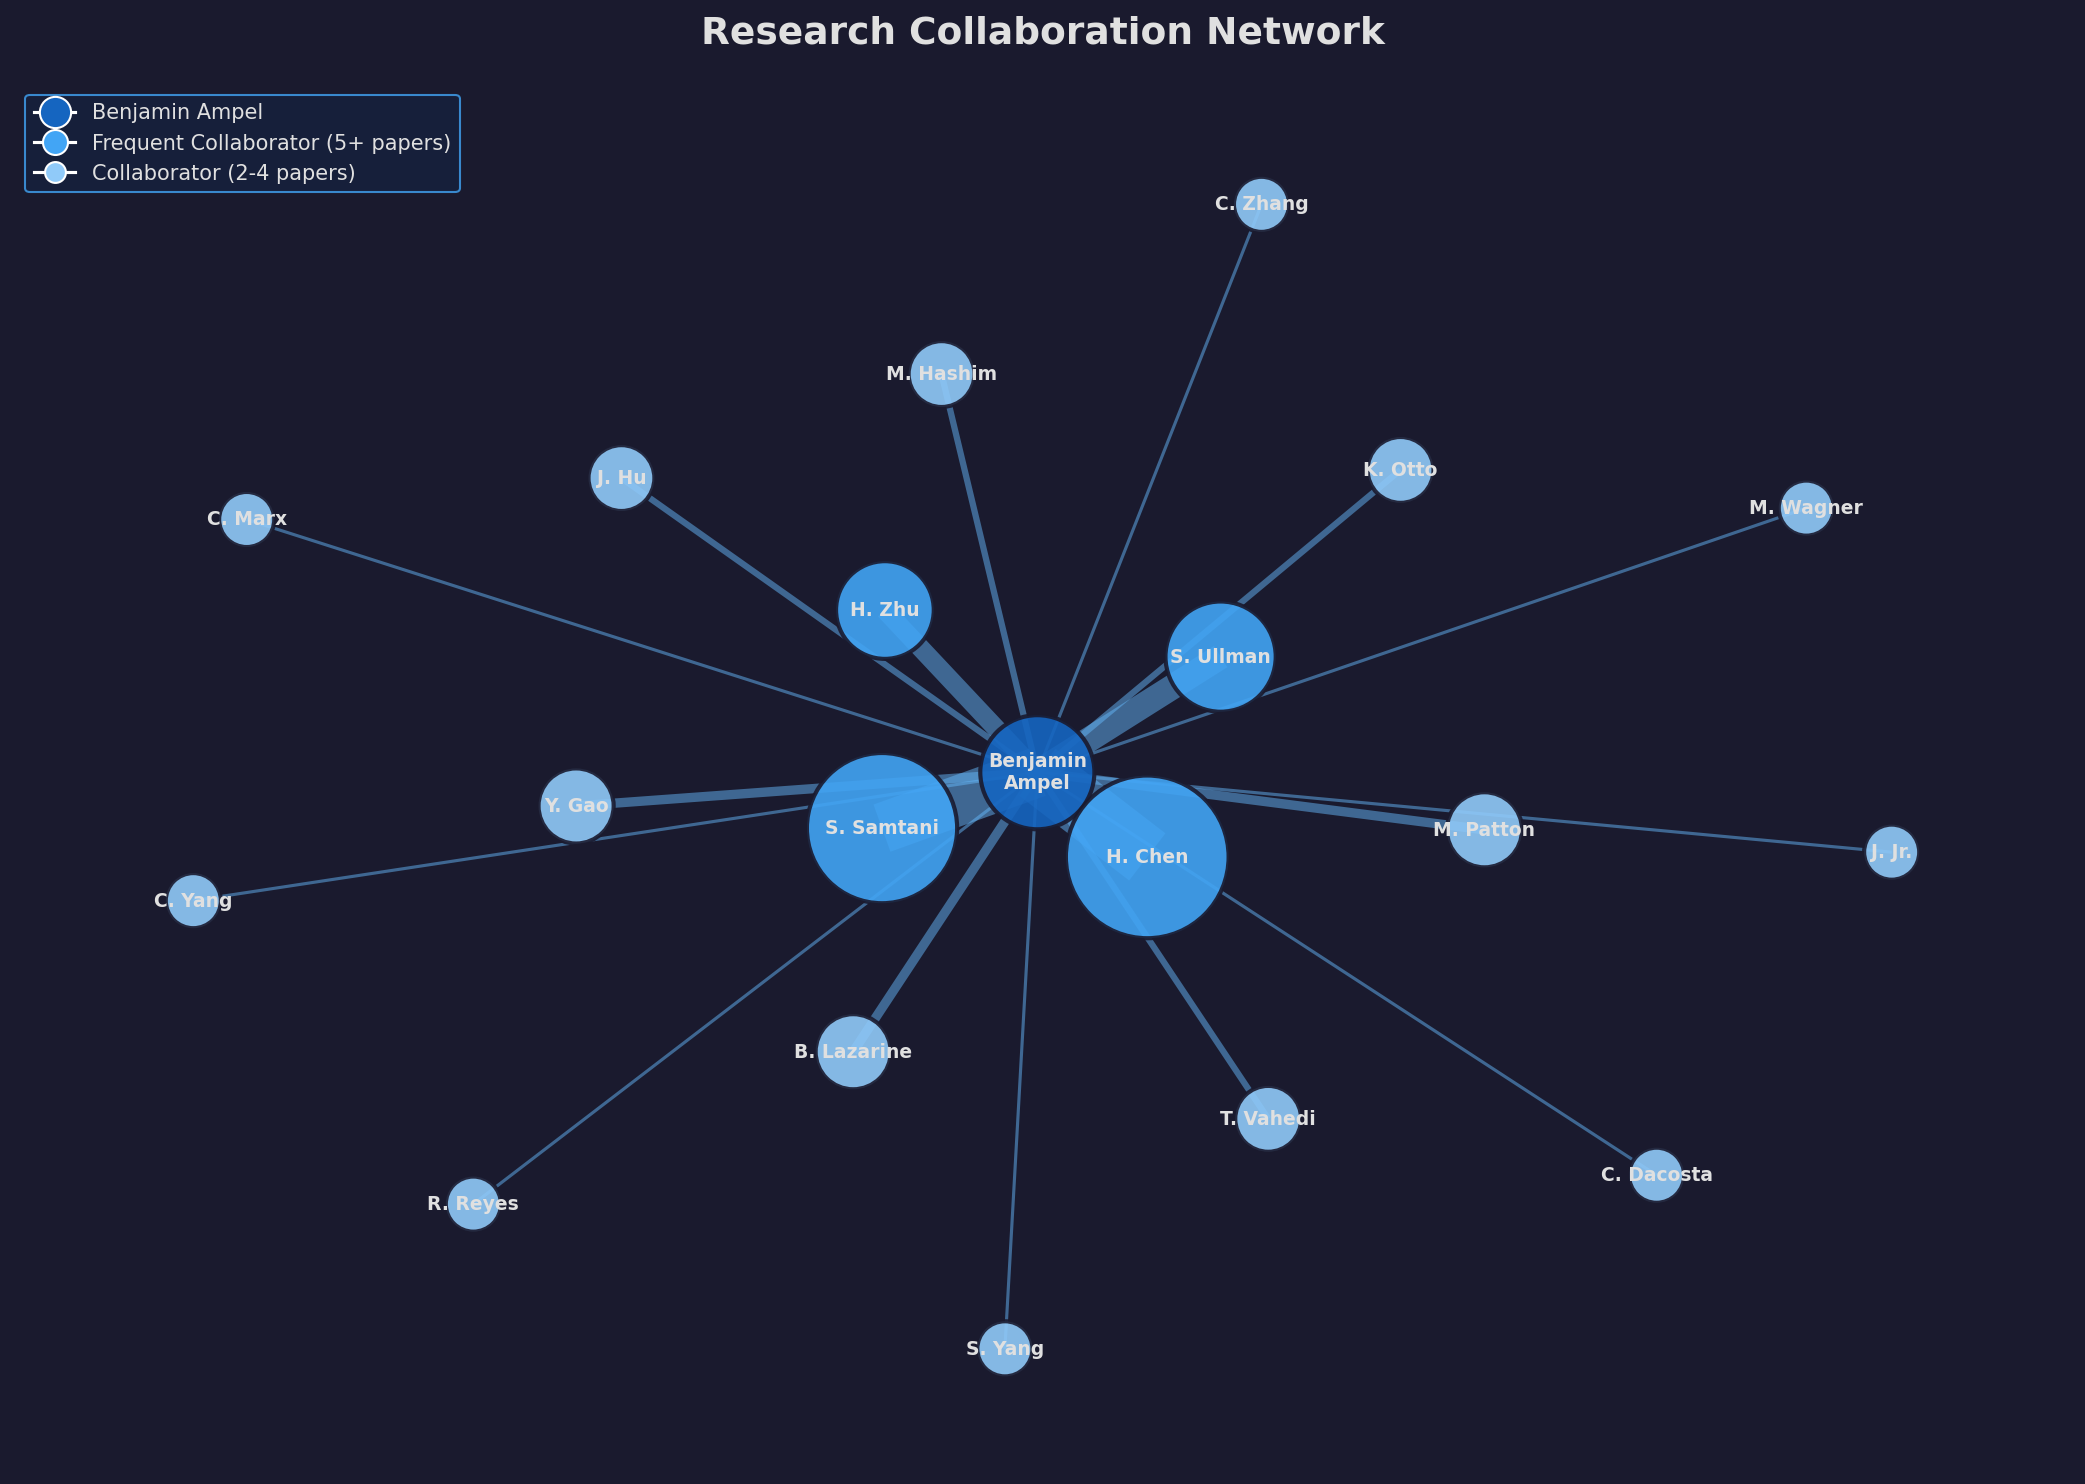
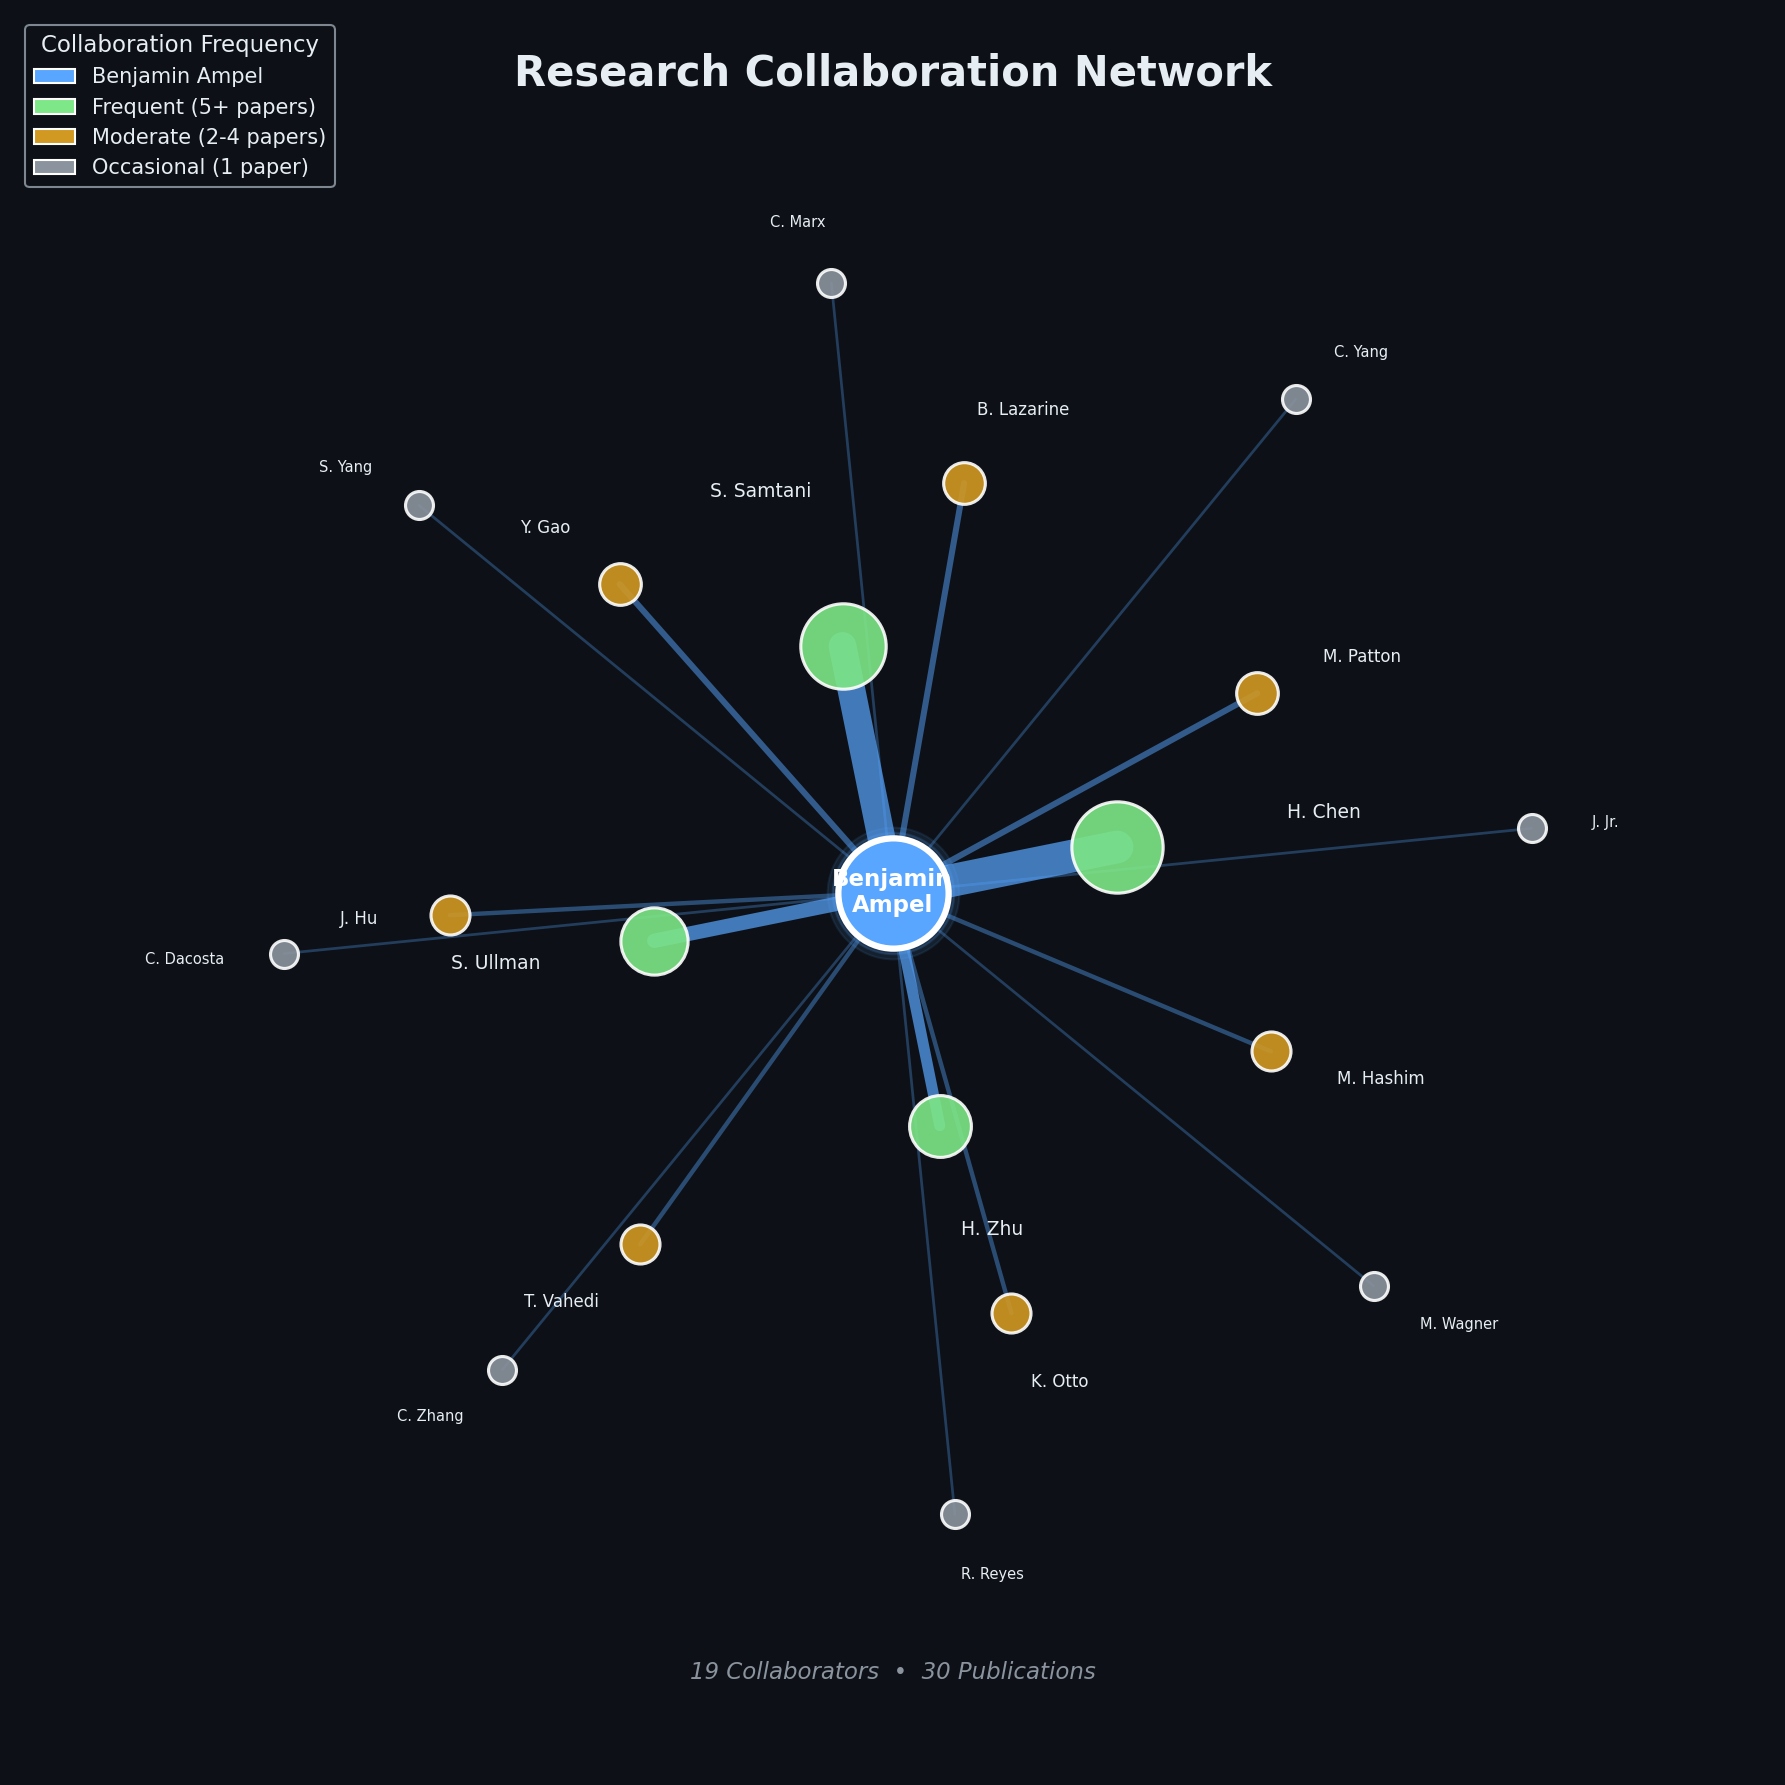
Add Python script for network generation, improve visualization
- Add scripts/generate_network.py with documentation
- Radial layout with main author at center
- Color-coded nodes by collaboration frequency (frequent/moderate/occasional)
- Glow effect on central node
- Labels positioned outside nodes for clarity
- Stats footer showing total collaborators and publications
- Professional color schemes for both light and dark modes
- GitHub-inspired dark mode colors

diff --git a/scripts/generate_network.py b/scripts/generate_network.py
@@ -1,0 +1,317 @@
+#!/usr/bin/env python3
+"""
+Generate a visually appealing co-author network graph for the website.
+
+Usage:
+    python3 -m venv venv
+    source venv/bin/activate
+    pip install networkx matplotlib numpy
+    python generate_network.py
+
+Output:
+    - ../static/images/coauthor-network.png (light mode)
+    - ../static/images/coauthor-network-dark.png (dark mode)
+"""
+
+import json
+import math
+import os
+import networkx as nx
+import matplotlib.pyplot as plt
+import matplotlib.patches as mpatches
+from matplotlib.colors import LinearSegmentedColormap
+import numpy as np
+from collections import defaultdict
+from pathlib import Path
+
+# Get the script's directory to find relative paths
+SCRIPT_DIR = Path(__file__).parent
+PROJECT_ROOT = SCRIPT_DIR.parent
+PUBLICATIONS_FILE = PROJECT_ROOT / "static" / "data" / "publications.json"
+OUTPUT_DIR = PROJECT_ROOT / "static" / "images"
+
+# Author name normalization map
+AUTHOR_NORMALIZATION = {
+    'B Ampel': 'Benjamin Ampel',
+    'BM Ampel': 'Benjamin Ampel',
+    'B. Ampel': 'Benjamin Ampel',
+    'Benjamin Ampel': 'Benjamin Ampel',
+    'H Chen': 'Hsinchun Chen',
+    'H. Chen': 'Hsinchun Chen',
+    'S Samtani': 'Sagar Samtani',
+    'S. Samtani': 'Sagar Samtani',
+    'S Ullman': 'Steven Ullman',
+    'S. Ullman': 'Steven Ullman',
+    'H Zhu': 'Hongyi Zhu',
+    'H. Zhu': 'Hongyi Zhu',
+    'M Patton': 'Mark Patton',
+    'M. Patton': 'Mark Patton',
+    'B Lazarine': 'Brian Lazarine',
+    'B. Lazarine': 'Brian Lazarine',
+    'T Vahedi': 'Taha Vahedi',
+    'T. Vahedi': 'Taha Vahedi',
+    'K Otto': 'Kristopher Otto',
+    'K. Otto': 'Kristopher Otto',
+    'Y Gao': 'Yue Gao',
+    'Y. Gao': 'Yue Gao',
+    'J Hu': 'Jiannan Hu',
+    'J. Hu': 'Jiannan Hu',
+    'CH Yang': 'C.H. Yang',
+    'JF Nunamaker Jr': 'Jay F. Nunamaker Jr.',
+    'C Marx': 'Christian Marx',
+    'C Dacosta': 'Cade Dacosta',
+    'C Zhang': 'Chengjun Zhang',
+    'M Hashim': 'Matthew Hashim',
+    'M Wagner': 'Mason Wagner',
+    'RY Reyes': 'Raul Reyes',
+    'S Yang': 'Shuo Yang',
+}
+
+MAIN_AUTHOR = 'Benjamin Ampel'
+
+
+def normalize_name(name):
+    """Normalize author name to canonical form."""
+    name = name.strip()
+    return AUTHOR_NORMALIZATION.get(name, name)
+
+
+def is_main_author(name):
+    """Check if this is the main author (Benjamin Ampel)."""
+    normalized = normalize_name(name)
+    return normalized == MAIN_AUTHOR or 'ampel' in name.lower()
+
+
+def load_publications():
+    """Load publications from JSON file."""
+    with open(PUBLICATIONS_FILE, 'r') as f:
+        return json.load(f)
+
+
+def build_coauthor_counts(publications):
+    """Build a dictionary of co-author collaboration counts."""
+    counts = defaultdict(int)
+    for pub in publications:
+        authors = [normalize_name(a) for a in pub['authors']]
+        for author in authors:
+            if not is_main_author(author):
+                counts[author] += 1
+    return dict(counts)
+
+
+def create_radial_layout(G, center_node, coauthor_counts):
+    """Create a custom radial layout with the main author at center."""
+    pos = {}
+    pos[center_node] = (0, 0)
+    
+    # Sort co-authors by collaboration count (most frequent closest to center)
+    other_nodes = [n for n in G.nodes() if n != center_node]
+    other_nodes.sort(key=lambda x: coauthor_counts.get(x, 0), reverse=True)
+    
+    # Place nodes in concentric rings based on collaboration frequency
+    frequent = [n for n in other_nodes if coauthor_counts.get(n, 0) >= 5]
+    moderate = [n for n in other_nodes if 2 <= coauthor_counts.get(n, 0) < 5]
+    occasional = [n for n in other_nodes if coauthor_counts.get(n, 0) < 2]
+    
+    def place_ring(nodes, radius, start_angle=0):
+        if not nodes:
+            return
+        angle_step = 2 * math.pi / len(nodes)
+        for i, node in enumerate(nodes):
+            angle = start_angle + i * angle_step
+            # Add slight randomness for organic feel
+            r = radius + np.random.uniform(-0.1, 0.1)
+            pos[node] = (r * math.cos(angle), r * math.sin(angle))
+    
+    np.random.seed(42)  # For reproducibility
+    place_ring(frequent, 1.2, start_angle=0.2)
+    place_ring(moderate, 2.2, start_angle=0.5)
+    place_ring(occasional, 3.2, start_angle=0.1)
+    
+    return pos
+
+
+def draw_network(dark_mode=False):
+    """Generate the network visualization."""
+    # Load data
+    publications = load_publications()
+    coauthor_counts = build_coauthor_counts(publications)
+    
+    # Create graph
+    G = nx.Graph()
+    G.add_node(MAIN_AUTHOR)
+    
+    for author, count in coauthor_counts.items():
+        G.add_node(author)
+        G.add_edge(MAIN_AUTHOR, author, weight=count)
+    
+    # Color schemes
+    if dark_mode:
+        bg_color = '#0d1117'
+        text_color = '#e6edf3'
+        primary_color = '#58a6ff'
+        frequent_color = '#7ee787'
+        moderate_color = '#d29922'
+        occasional_color = '#8b949e'
+        edge_color = 'rgba(88, 166, 255, 0.3)'
+        glow_color = '#58a6ff'
+    else:
+        bg_color = '#ffffff'
+        text_color = '#1f2328'
+        primary_color = '#0969da'
+        frequent_color = '#1a7f37'
+        moderate_color = '#9a6700'
+        occasional_color = '#656d76'
+        edge_color = 'rgba(9, 105, 218, 0.2)'
+        glow_color = '#0969da'
+    
+    # Create figure
+    fig, ax = plt.subplots(figsize=(16, 12), facecolor=bg_color)
+    ax.set_facecolor(bg_color)
+    
+    # Get layout
+    pos = create_radial_layout(G, MAIN_AUTHOR, coauthor_counts)
+    
+    # Draw edges with varying thickness and alpha
+    for u, v, data in G.edges(data=True):
+        weight = data['weight']
+        alpha = min(0.2 + weight * 0.1, 0.7)
+        width = 0.5 + weight * 0.8
+        
+        x = [pos[u][0], pos[v][0]]
+        y = [pos[u][1], pos[v][1]]
+        
+        # Draw edge with gradient effect
+        ax.plot(x, y, color=primary_color, alpha=alpha, linewidth=width, 
+                solid_capstyle='round', zorder=1)
+    
+    # Draw nodes
+    for node in G.nodes():
+        x, y = pos[node]
+        
+        if node == MAIN_AUTHOR:
+            # Main author - large prominent node with glow
+            size = 2800
+            color = primary_color
+            
+            # Glow effect
+            for glow_size, glow_alpha in [(4000, 0.1), (3400, 0.15), (3000, 0.2)]:
+                ax.scatter([x], [y], s=glow_size, c=glow_color, alpha=glow_alpha, zorder=2)
+            
+            ax.scatter([x], [y], s=size, c=color, edgecolors='white', 
+                      linewidths=3, zorder=3)
+            
+            # Name label
+            ax.annotate('Benjamin\nAmpel', (x, y), fontsize=11, fontweight='bold',
+                       color='white', ha='center', va='center', zorder=4)
+        else:
+            count = coauthor_counts.get(node, 0)
+            
+            # Determine color and size based on collaboration count
+            if count >= 5:
+                color = frequent_color
+                size = 400 + count * 80
+                fontsize = 9
+            elif count >= 2:
+                color = moderate_color
+                size = 250 + count * 50
+                fontsize = 8
+            else:
+                color = occasional_color
+                size = 180
+                fontsize = 7
+            
+            # Draw node
+            ax.scatter([x], [y], s=size, c=color, edgecolors='white', 
+                      linewidths=1.5, alpha=0.9, zorder=3)
+            
+            # Format name (abbreviate first name)
+            parts = node.split()
+            if len(parts) >= 2:
+                display_name = f"{parts[0][0]}. {parts[-1]}"
+            else:
+                display_name = node
+            
+            # Position label outside node
+            angle = math.atan2(y, x)
+            label_distance = 0.25 + (size / 3000)
+            label_x = x + label_distance * math.cos(angle)
+            label_y = y + label_distance * math.sin(angle)
+            
+            # Horizontal alignment based on position
+            ha = 'left' if x >= 0 else 'right'
+            
+            ax.annotate(display_name, (label_x, label_y), fontsize=fontsize,
+                       color=text_color, ha=ha, va='center', fontweight='medium',
+                       zorder=4)
+    
+    # Add title
+    title_color = text_color
+    ax.text(0, 4.2, 'Research Collaboration Network', fontsize=20, fontweight='bold',
+            color=title_color, ha='center', va='center')
+    
+    # Add legend
+    legend_elements = [
+        mpatches.Patch(facecolor=primary_color, edgecolor='white', label='Benjamin Ampel'),
+        mpatches.Patch(facecolor=frequent_color, edgecolor='white', label='Frequent (5+ papers)'),
+        mpatches.Patch(facecolor=moderate_color, edgecolor='white', label='Moderate (2-4 papers)'),
+        mpatches.Patch(facecolor=occasional_color, edgecolor='white', label='Occasional (1 paper)'),
+    ]
+    
+    legend = ax.legend(handles=legend_elements, loc='upper left', 
+                       frameon=True, fancybox=True, shadow=False,
+                       fontsize=10, title='Collaboration Frequency',
+                       title_fontsize=11)
+    legend.get_frame().set_facecolor(bg_color)
+    legend.get_frame().set_edgecolor(occasional_color)
+    legend.get_frame().set_alpha(0.9)
+    for text in legend.get_texts():
+        text.set_color(text_color)
+    legend.get_title().set_color(text_color)
+    
+    # Add stats
+    total_collaborators = len(coauthor_counts)
+    total_papers = len(publications)
+    stats_text = f'{total_collaborators} Collaborators  •  {total_papers} Publications'
+    ax.text(0, -4.0, stats_text, fontsize=11, color=occasional_color, 
+            ha='center', va='center', style='italic')
+    
+    # Clean up axes
+    ax.set_xlim(-4.5, 4.5)
+    ax.set_ylim(-4.5, 4.5)
+    ax.axis('off')
+    ax.set_aspect('equal')
+    
+    plt.tight_layout()
+    
+    return fig
+
+
+def main():
+    """Generate both light and dark mode network images."""
+    # Ensure output directory exists
+    OUTPUT_DIR.mkdir(parents=True, exist_ok=True)
+    
+    # Generate light mode
+    print("Generating light mode network...")
+    fig_light = draw_network(dark_mode=False)
+    light_path = OUTPUT_DIR / 'coauthor-network.png'
+    fig_light.savefig(light_path, dpi=150, bbox_inches='tight', 
+                      facecolor='white', edgecolor='none')
+    plt.close(fig_light)
+    print(f"  Saved: {light_path}")
+    
+    # Generate dark mode
+    print("Generating dark mode network...")
+    fig_dark = draw_network(dark_mode=True)
+    dark_path = OUTPUT_DIR / 'coauthor-network-dark.png'
+    fig_dark.savefig(dark_path, dpi=150, bbox_inches='tight', 
+                     facecolor='#0d1117', edgecolor='none')
+    plt.close(fig_dark)
+    print(f"  Saved: {dark_path}")
+    
+    print("\nDone! Network images generated successfully.")
+
+
+if __name__ == '__main__':
+    main()
